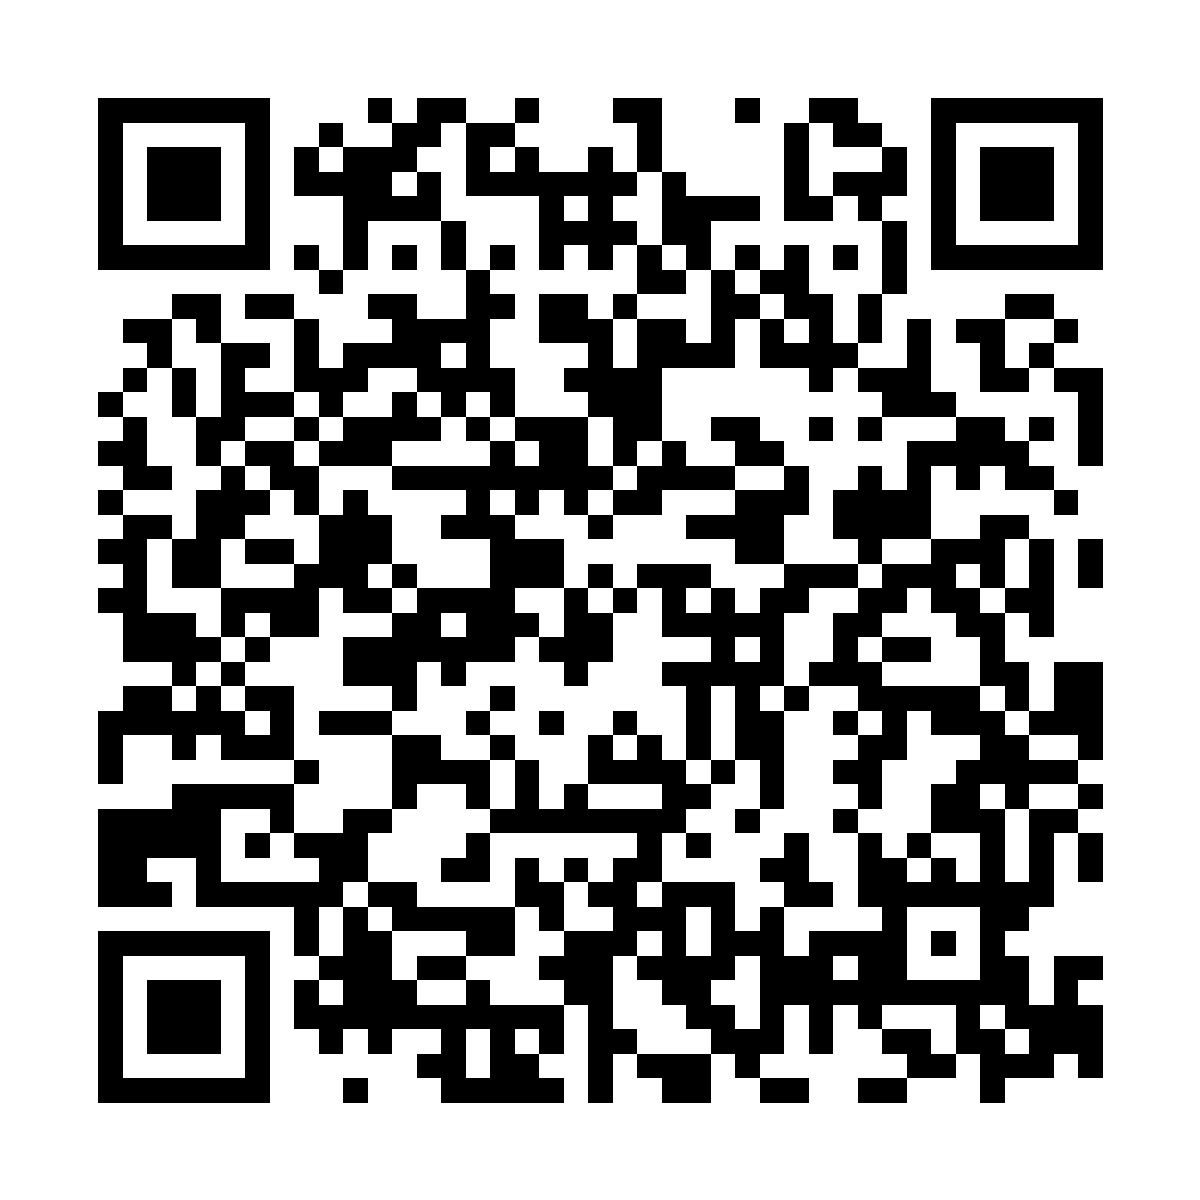
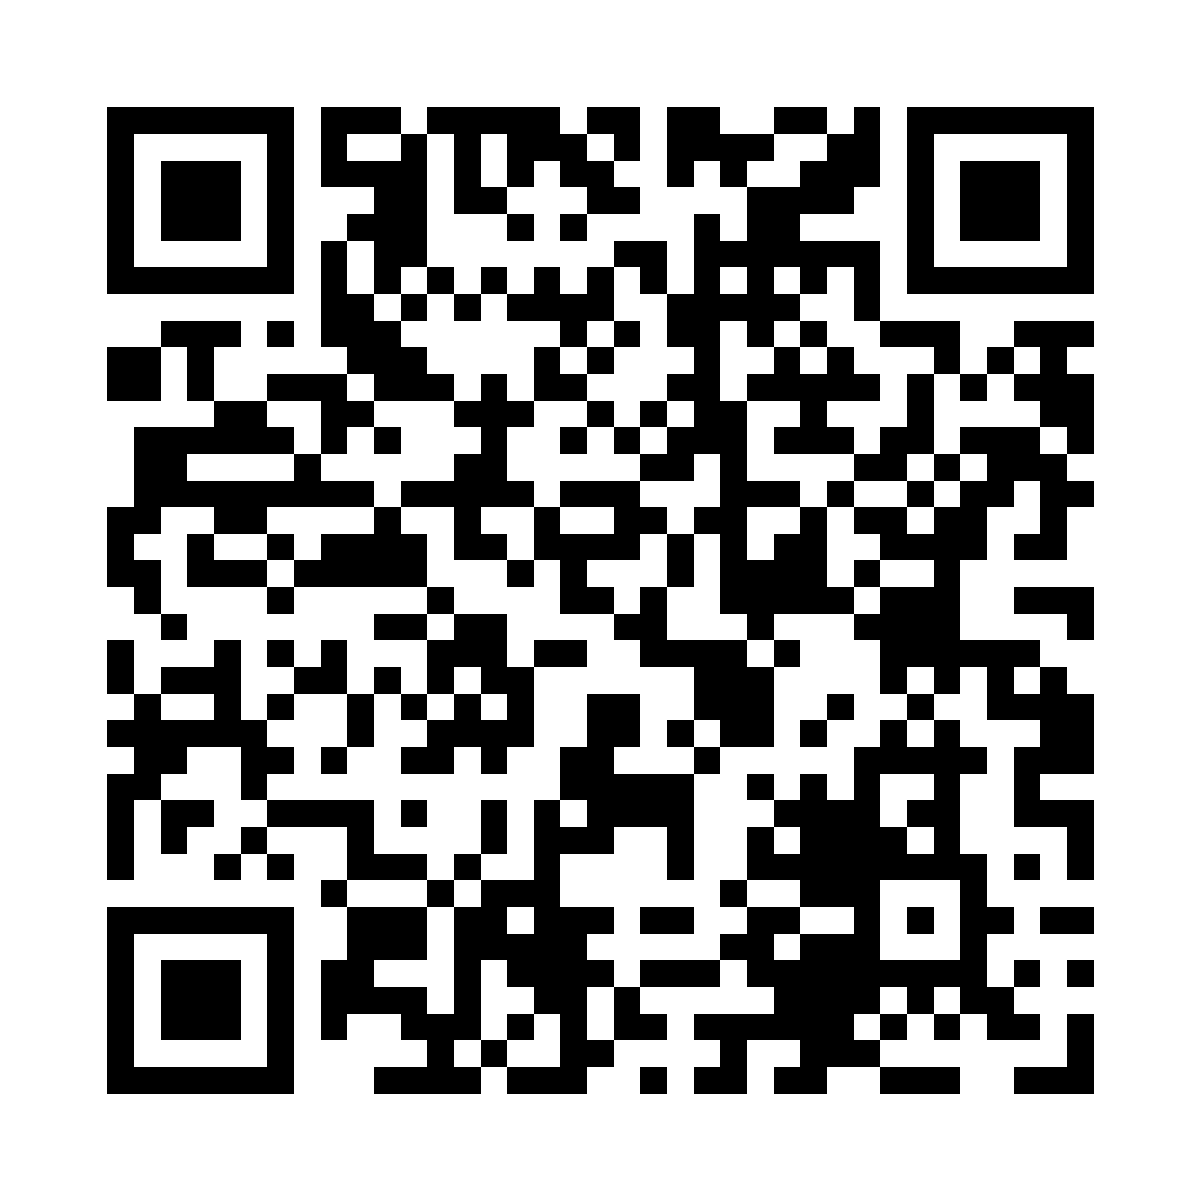
contact detail update

diff --git a/frontend/src/utils/pdfGenerator.js b/frontend/src/utils/pdfGenerator.js
@@ -100,7 +100,7 @@ export const generateAuditPDF = async (formData, ratings, comments, overallHealt
     doc.setFont('helvetica', 'normal');
     doc.setFontSize(5.8);
 
-    const contactLine1 = `WhatsApp / Phone: +91 94057 51665   |   Email: ${contactDetails.email}   |   Web: grow-india-website.onrender.com/about`;
+    const contactLine1 = `WhatsApp / Phone: +91 94057 51665   |   Email: ${contactDetails.email}   |   Web: growbusinesspartner.in`;
     const contactLine2 = `Instagram: @growbusinesspartner   |   Facebook: /GROWIndia   |   LinkedIn: /Govind Raadhaa Organizational Wonders`;
 
     doc.text(contactLine1, pageWidth / 2, footerY + 4.5, { align: 'center' });

diff --git a/frontend/src/components/audit/SocialShareBar.jsx b/frontend/src/components/audit/SocialShareBar.jsx
@@ -36,7 +36,7 @@ function TwitterIcon({ className = "w-4 h-4" }) {
 }
 
 export default function SocialShareBar({
-  shareUrl = typeof window !== 'undefined' ? window.location.href : 'https://grow-india-website.onrender.com/audit',
+  shareUrl = typeof window !== 'undefined' ? window.location.href : 'https://growbusinesspartner.in/audit',
   title = 'GROW Free Organizational Health Audit Questionnaire',
   description = 'Take this 2-minute free organizational health check to identify strengths, detect operational gaps, and improve systems for sustainable growth.'
 }) {

diff --git a/frontend/src/data/contact.js b/frontend/src/data/contact.js
@@ -13,6 +13,8 @@ export const contactDetails = {
   whatsappDisplay: '+91 94057 51665',
   whatsappLink: 'https://wa.me/919405751665',
   email: 'contact@growbusinesspartner.in',
+  website: 'https://growbusinesspartner.in',
+  websiteDisplay: 'growbusinesspartner.in',
   geographicScope: 'Serving Businesses Across India',
   location: 'Pan-India Delivery • Maharashtra, India',
   workingHours: 'Mon – Sat: 9:30 AM – 6:30 PM IST',

diff --git a/frontend/src/config/resourcesConfig.js b/frontend/src/config/resourcesConfig.js
@@ -11,7 +11,7 @@
 import { contactDetails } from '../data/contact';
 
 // Public production site base URL (can be customized via VITE_PUBLIC_SITE_URL)
-const DEFAULT_PRODUCTION_BASE = 'https://grow-india-website.onrender.com';
+const DEFAULT_PRODUCTION_BASE = 'https://growbusinesspartner.in';
 
 export const resourcesConfig = {
   // Base website URL - prioritizes Vite environment variable if set

diff --git a/frontend/scripts/generate-qr.js b/frontend/scripts/generate-qr.js
@@ -24,7 +24,7 @@ const __dirname = path.dirname(__filename);
 const OUTPUT_DIR = path.resolve(__dirname, '../public/qr');
 
 // Default production URL for the landing page
-const DEFAULT_URL = 'https://grow-india-website.onrender.com/resources';
+const DEFAULT_URL = 'https://growbusinesspartner.in/resources';
 
 // Parse command-line args for --url=...
 function getTargetUrl() {

diff --git a/frontend/src/components/audit/FreeAuditForm.jsx b/frontend/src/components/audit/FreeAuditForm.jsx
@@ -1048,7 +1048,7 @@ export default function FreeAuditForm() {
           <span>📞 +91 94057 51665</span>
           <span>✉ {contactDetails.email}</span>
           <span>📸 @growbusinesspartner</span>
-          <span>🌐 https://grow-india-website.onrender.com</span>
+          <span>🌐 https://growbusinesspartner.in</span>
         </div>
 
       </div>
